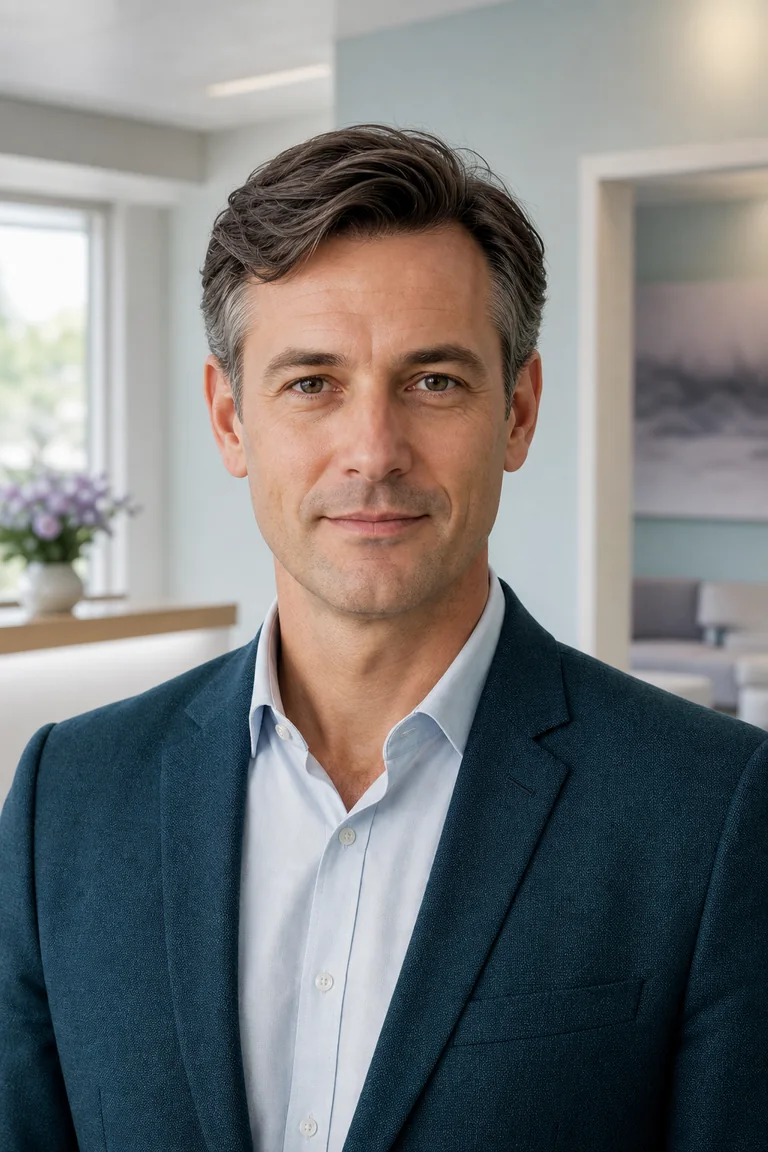
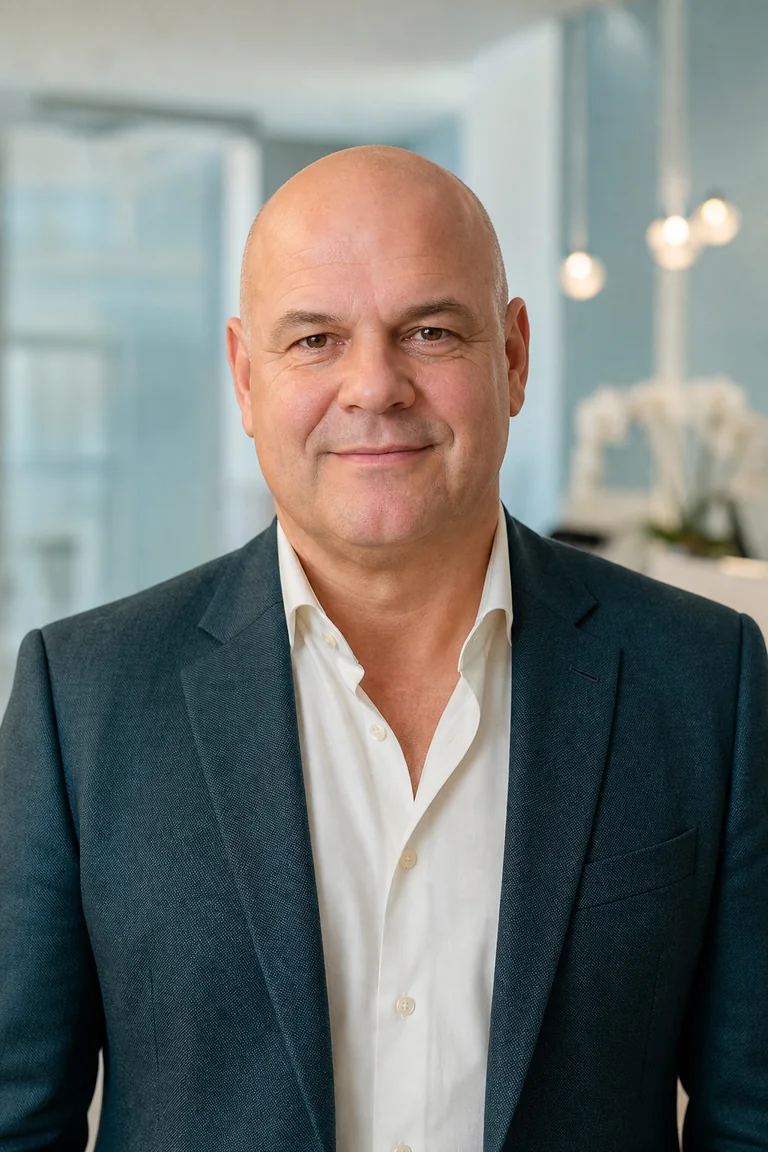
Add Vienna contacts and distinct portraits

diff --git a/medical.css b/medical.css
@@ -95,6 +95,7 @@ main > .result { order: 10; }
 main > .trust { order: 11; }
 main > .questions { order: 12; }
 main > .preparation { order: 13; }
+main > .contact { order: 14; }
 
 a {
   color: inherit;
@@ -1734,6 +1735,83 @@ h2 {
   font-family: Georgia, serif;
 }
 
+.contact {
+  padding: 0 0 46px;
+  background: var(--paper);
+}
+
+.contact-card {
+  display: grid;
+  grid-template-columns: .82fr 1.18fr;
+  gap: 7vw;
+  padding: 70px;
+  border-radius: var(--radius-xl);
+  color: var(--white);
+  background:
+    radial-gradient(circle at 85% 0, rgba(169, 216, 207, .2), transparent 32%),
+    linear-gradient(140deg, #163f49, #102f37);
+  box-shadow: var(--shadow);
+}
+
+.contact-copy h2 {
+  margin: 0 0 28px;
+  color: var(--white);
+  font-size: clamp(48px, 5vw, 72px);
+}
+
+.contact-copy > p:not(.eyebrow) {
+  max-width: 460px;
+  margin: 0;
+  color: rgba(255, 255, 255, .64);
+  font-size: 15px;
+}
+
+.contact-card .eyebrow {
+  color: var(--mint);
+}
+
+.contact-list {
+  display: grid;
+  gap: 12px;
+}
+
+.contact-item {
+  display: grid;
+  min-height: 178px;
+  align-content: space-between;
+  gap: 18px;
+  padding: 28px;
+  border: 1px solid rgba(255, 255, 255, .14);
+  border-radius: var(--radius-md);
+  background: rgba(255, 255, 255, .07);
+  transition: transform .28s ease, border-color .28s ease, background-color .28s ease;
+}
+
+.contact-item:hover {
+  border-color: rgba(169, 216, 207, .48);
+  background: rgba(255, 255, 255, .11);
+  transform: translateY(-3px);
+}
+
+.contact-item span,
+.contact-item small {
+  color: rgba(255, 255, 255, .54);
+  font-size: 9px;
+  font-weight: 750;
+  letter-spacing: .12em;
+  text-transform: uppercase;
+}
+
+.contact-item strong {
+  color: var(--white);
+  font-size: clamp(22px, 2.1vw, 32px);
+  line-height: 1.2;
+}
+
+.contact-item small {
+  color: var(--mint);
+}
+
 .site-footer {
   padding: 60px 0;
   color: var(--white);
@@ -1838,7 +1916,8 @@ h2 {
   .section-heading,
   .methods-layout,
   .questions-grid,
-  .preparation-card { grid-template-columns: 1fr; gap: 40px; }
+  .preparation-card,
+  .contact-card { grid-template-columns: 1fr; gap: 40px; }
   .section-heading > p { max-width: 700px; margin-bottom: 0; }
   .emergency-note { grid-template-columns: 1fr; gap: 12px; }
   .emergency-note span { justify-self: start; }
@@ -1961,6 +2040,11 @@ h2 {
   .preparation { padding-bottom: 28px; }
   .preparation-card { padding: 38px 22px; }
   .preparation-card li { grid-template-columns: 38px 1fr; font-size: 13px; }
+  .contact { padding-bottom: 28px; }
+  .contact-card { gap: 28px; padding: 38px 22px; border-radius: 26px; }
+  .contact-copy h2 { font-size: 43px; }
+  .contact-item { min-height: 150px; padding: 22px; }
+  .contact-item strong { overflow-wrap: anywhere; font-size: 22px; }
   .footer-grid { grid-template-columns: 1fr; gap: 32px; }
   .footer-grid > p { grid-column: auto; grid-row: auto; }
 }

diff --git a/index.html b/index.html
@@ -3,7 +3,7 @@
 <head>
   <meta charset="utf-8">
   <meta name="viewport" content="width=device-width, initial-scale=1">
-  <meta name="description" content="NEURODIAGNOSTIK — независимый центр восстановления и правовой защиты в Германии. Помощь биоэнергетика после негативного эзотерического опыта и отдельный юридический отдел при материальном ущербе.">
+  <meta name="description" content="NEURODIAGNOSTIK — независимый центр восстановления и правовой защиты в Вене, Австрия. Помощь биоэнергетика после негативного эзотерического опыта и отдельный юридический отдел при материальном ущербе.">
   <meta name="robots" content="noindex, nofollow">
   <meta name="theme-color" content="#eaf6f4">
   <meta property="og:title" content="NEURODIAGNOSTIK — восстановление и правовая защита">
@@ -27,7 +27,7 @@
       </span>
       <span class="brand-copy">
         <strong>NEURO<span>DIAGNOSTIK</span></strong>
-        <small>Восстановление и правовая защита · Германия</small>
+        <small>Восстановление и правовая защита · Вена</small>
       </span>
     </a>
 
@@ -37,6 +37,7 @@
       <a href="#energy-specialist">Биоэнергетик</a>
       <a href="#lawyers">Юристы</a>
       <a href="#process">Как работаем</a>
+      <a href="#contacts">Контакты</a>
     </nav>
 
     <a class="button button-primary header-cta" href="#routes">Два направления</a>
@@ -50,6 +51,7 @@
       <a href="#energy-specialist">Биоэнергетик</a>
       <a href="#lawyers">Юристы</a>
       <a href="#process">Как работаем</a>
+      <a href="#contacts">Контакты</a>
       <a class="button button-primary" href="#routes">Два направления</a>
     </nav>
   </div>
@@ -59,7 +61,7 @@
       <div class="hero-ambient" aria-hidden="true"></div>
       <div class="section-shell hero-grid">
         <div class="hero-copy">
-          <p class="eyebrow">Независимый центр · Германия</p>
+          <p class="eyebrow">Независимый центр · Вена, Австрия</p>
           <h1 id="hero-title">
             <span>После общения</span>
             <span>с экстрасенсом</span>
@@ -98,7 +100,7 @@
     <section class="section-pad clinic-entry" id="about">
       <div class="section-shell">
         <div class="clinic-facts reveal-group" aria-label="Формат работы центра">
-          <article><span>Кто мы</span><strong>Независимый центр в Германии</strong><small>специалисты по восстановлению состояния, нейропсихологии и правовой защите</small></article>
+          <article><span>Кто мы</span><strong>Независимый центр в Вене</strong><small>специалисты по восстановлению состояния, нейропсихологии и правовой защите</small></article>
           <article><span>С чем работаем</span><strong>Последствия обращения к эзотерикам</strong><small>ухудшение состояния, страх, зависимость от сеансов или материальный ущерб</small></article>
           <article><span>Как начинается работа</span><strong>С первичного разговора</strong><small>сначала понимаем задачу, затем предлагаем только подходящий маршрут</small></article>
           <article><span>Главный принцип</span><strong>Два независимых направления</strong><small>восстановление с биоэнергетиком или отдельная юридическая работа</small></article>
@@ -150,7 +152,7 @@
         <aside class="emergency-note reveal-group">
           <strong>Когда нельзя ждать консультации центра</strong>
           <p>Внезапная слабость или онемение одной стороны тела, перекос лица, нарушение речи, потеря сознания, судороги, самая сильная внезапная головная боль или непосредственный риск причинения вреда себе — повод немедленно обратиться в экстренную службу.</p>
-          <span>В Германии: 112</span>
+          <span>В Австрии: 144 или 112</span>
         </aside>
       </div>
     </section>
@@ -305,7 +307,7 @@
               <div class="lawyer-card-top"><span>J-05</span><small>Cross-border</small></div>
               <h4>Юрист по трансграничным обращениям</h4>
               <p>Проверяет, где зарегистрирован получатель, какая страна и орган могут рассматривать спор и нужен ли местный представитель.</p>
-              <dl><div><dt>Фокус</dt><dd>Германия, ЕС и иностранные получатели</dd></div><div><dt>Результат</dt><dd>юрисдикция и адресаты обращений</dd></div></dl>
+              <dl><div><dt>Фокус</dt><dd>Австрия, ЕС и иностранные получатели</dd></div><div><dt>Результат</dt><dd>юрисдикция и адресаты обращений</dd></div></dl>
             </article>
           </div>
 
@@ -404,8 +406,8 @@
         </div>
         <div class="trust-grid reveal-group">
           <article><span>01</span><h3>Без магических диагнозов</h3><p>Ощущение воздействия принимается всерьёз, но не выдаётся за доказанный сверхъестественный факт.</p></article>
-          <article><span>02</span><h3>Approbation</h3><p>Медицинские решения принимает врач с действующим правом на практику в Германии.</p></article>
-          <article><span>03</span><h3>Facharztanerkennung</h3><p>Врачебная специализация должна соответствовать заявленному медицинскому профилю.</p></article>
+          <article><span>02</span><h3>Право на практику</h3><p>Медицинские решения принимает только специалист с действующим профессиональным статусом.</p></article>
+          <article><span>03</span><h3>Профильная квалификация</h3><p>Врачебная специализация должна соответствовать заявленному медицинскому профилю.</p></article>
           <article><span>04</span><h3>Без гарантий результата</h3><p>Ни очистка, ни лечение, ни возврат средств не обещаются до профессиональной оценки.</p></article>
           <article><span>05</span><h3>Конфиденциальность</h3><p>Понятный регламент доступа к медицинским, личным и платёжным данным.</p></article>
           <article><span>06</span><h3>Разделение компетенций</h3><p>Энергетик, нейропсихолог, врач и юрист отвечают только за свою часть маршрута.</p></article>
@@ -434,16 +436,38 @@
         <ol><li><span>01</span>С кем общались и что происходило</li><li><span>02</span>Что изменилось в состоянии и когда</li><li><span>03</span>Были ли платежи, давление или угрозы</li><li><span>04</span>Что вам нужно сейчас: восстановление, защита или оба направления</li></ol>
       </div>
     </section>
+
+    <section class="contact" id="contacts" aria-labelledby="contact-title">
+      <div class="section-shell contact-card reveal-group">
+        <div class="contact-copy">
+          <p class="eyebrow">Контакты центра</p>
+          <h2 id="contact-title">Вена,<br>Австрия</h2>
+          <p>Адрес и телефон для связи с центром. Перед визитом согласуйте формат обращения по телефону.</p>
+        </div>
+        <div class="contact-list">
+          <a class="contact-item" href="https://www.google.com/maps/search/?api=1&amp;query=Heiligenst%C3%A4dter%20Str.%2055%2F65%2C%201190%20Wien%2C%20Austria" target="_blank" rel="noopener noreferrer">
+            <span>Адрес</span>
+            <strong>Heiligenstädter Str. 55/65<br>1190 Wien, Австрия</strong>
+            <small>Открыть на карте →</small>
+          </a>
+          <a class="contact-item" href="tel:+431360665000">
+            <span>Телефон</span>
+            <strong>+43 1 360665000</strong>
+            <small>Позвонить в центр →</small>
+          </a>
+        </div>
+      </div>
+    </section>
   </main>
 
   <footer class="site-footer">
     <div class="section-shell footer-grid">
       <a class="brand brand-footer" href="#top">
         <span class="brand-mark" aria-hidden="true"><svg class="brand-emblem" viewBox="0 0 64 64" role="presentation"><path class="brand-shield" d="M32 5 52 12v17c0 13-8.5 23.5-20 29C20.5 52.5 12 42 12 29V12Z"/><path class="brand-cross" d="M32 15v22M21 26h22"/><path class="brand-neural" d="M18 43c5.5-6.5 11-3 16-7.5 4.5-4 5.5-9.5 12-13.5"/><circle class="brand-node" cx="18" cy="43" r="2.2"/><circle class="brand-node" cx="46" cy="22" r="2.2"/></svg></span>
-        <span class="brand-copy"><strong>NEURO<span>DIAGNOSTIK</span></strong><small>Восстановление и правовая защита · Германия</small></span>
+        <span class="brand-copy"><strong>NEURO<span>DIAGNOSTIK</span></strong><small>Восстановление и правовая защита · Вена</small></span>
       </a>
-      <p>Информационный сайт центра. Энергетические практики не являются медицинской диагностикой или лечением. Медицинские решения принимают только профильные специалисты; юридический результат не гарантируется заранее.</p>
-      <div><a href="#about">Кто мы</a><a href="#routes">Два направления</a><a href="#energy-specialist">Биоэнергетик</a><a href="#lawyers">Юридический отдел</a><a href="#methods">Медицинская экспертиза</a><a href="#process">Как работаем</a><a href="#questions">Вопросы</a><a href="terms.html">Пользовательское соглашение</a></div>
+      <p>Heiligenstädter Str. 55/65, 1190 Wien, Австрия<br><a href="tel:+431360665000">+43 1 360665000</a></p>
+      <div><a href="#about">Кто мы</a><a href="#routes">Два направления</a><a href="#energy-specialist">Биоэнергетик</a><a href="#lawyers">Юридический отдел</a><a href="#methods">Медицинская экспертиза</a><a href="#process">Как работаем</a><a href="#questions">Вопросы</a><a href="#contacts">Контакты</a><a href="terms.html">Пользовательское соглашение</a></div>
     </div>
   </footer>
 </body>

diff --git a/terms.html b/terms.html
@@ -22,7 +22,7 @@
       </span>
       <span class="brand-copy">
         <strong>NEURO<span>DIAGNOSTIK</span></strong>
-        <small>Восстановление и правовая защита · Германия</small>
+        <small>Восстановление и правовая защита · Вена</small>
       </span>
     </a>
     <a class="button button-primary legal-back" href="index.html">Вернуться на сайт</a>
@@ -32,7 +32,7 @@
     <section class="legal-hero">
       <div class="section-shell legal-hero-grid">
         <div>
-          <p class="eyebrow">Правовая информация · версия от 17 июля 2026 года</p>
+          <p class="eyebrow">Правовая информация · версия от 18 июля 2026 года</p>
           <h1>Пользовательское<br>соглашение</h1>
         </div>
         <div class="legal-hero-note">
@@ -74,7 +74,7 @@
           <section id="operator">
             <span class="legal-number">02</span>
             <h2>Владелец сайта и сфера действия</h2>
-            <p>В настоящем Соглашении «Оператор» означает лицо, которое владеет Сайтом и отвечает за его содержание. Полное юридическое наименование, правовая форма, официальный адрес, регистрационные и профессиональные сведения публикуются в отдельном Impressum на основании официальных документов Оператора.</p>
+            <p>В настоящем Соглашении «Оператор» означает лицо, которое владеет Сайтом и отвечает за его содержание. Контактный адрес: Heiligenstädter Str. 55/65, 1190 Wien, Австрия. Телефон: <a href="tel:+431360665000">+43 1 360665000</a>. Полное юридическое наименование, правовая форма, регистрационные и профессиональные сведения публикуются в отдельном Impressum на основании официальных документов Оператора.</p>
             <p>До публикации таких сведений Сайт используется только как информационная презентация: через него нельзя заключить договор, оплатить услугу или передать медицинские и иные чувствительные данные.</p>
             <p>Настоящее Соглашение относится только к использованию информационного Сайта. Биоэнергетическое сопровождение, медицинские, диагностические и юридические услуги, если они предлагаются, регулируются отдельными договорами и условиями.</p>
           </section>
@@ -109,8 +109,8 @@
             <h2>Сайт не предназначен для экстренной помощи</h2>
             <p>При угрозе жизни, потере сознания, выраженной спутанности сознания, судорогах, внезапном неврологическом дефиците, суицидальных намерениях или ином неотложном состоянии необходимо немедленно обращаться в экстренные службы.</p>
             <div class="emergency-contacts">
-              <a href="tel:112"><strong>112</strong><span>Экстренная помощь в Германии</span></a>
-              <a href="tel:116117"><strong>116117</strong><span>Дежурная медицинская служба, если состояние не угрожает жизни</span></a>
+              <a href="tel:144"><strong>144</strong><span>Скорая помощь в Австрии</span></a>
+              <a href="tel:1450"><strong>1450</strong><span>Медицинская консультационная линия в Австрии</span></a>
             </div>
             <p>Сайт, электронная почта и дистанционная переписка не контролируются как канал экстренной связи и не должны использоваться для срочного получения помощи.</p>
           </section>
@@ -136,7 +136,7 @@
             <span class="legal-number">09</span>
             <h2>Изменения и применимое право</h2>
             <p>Оператор может изменять содержание Сайта и настоящего Соглашения. Актуальная редакция публикуется на этой странице с указанием даты. Изменения не имеют обратной силы в отношении уже заключённых отдельных договоров, если иное прямо не предусмотрено законом.</p>
-            <p>К использованию Сайта применяется право Федеративной Республики Германия с сохранением обязательных прав потребителя, предоставленных правом страны его обычного места жительства.</p>
+            <p>Применимое право и компетентный орган определяются обязательными нормами, статусом Оператора и условиями отдельного договора. Контактный адрес в Австрии сам по себе не заменяет сведения о юридическом лице и его профессиональном статусе.</p>
             <p>Если отдельное положение окажется недействительным, остальные положения продолжают действовать в допустимом законом объёме.</p>
           </section>
 
@@ -149,7 +149,7 @@
     <div class="section-shell footer-grid">
       <a class="brand brand-footer" href="index.html">
         <span class="brand-mark" aria-hidden="true"><svg class="brand-emblem" viewBox="0 0 64 64" role="presentation"><path class="brand-shield" d="M32 5 52 12v17c0 13-8.5 23.5-20 29C20.5 52.5 12 42 12 29V12Z"/><path class="brand-cross" d="M32 15v22M21 26h22"/><path class="brand-neural" d="M18 43c5.5-6.5 11-3 16-7.5 4.5-4 5.5-9.5 12-13.5"/><circle class="brand-node" cx="18" cy="43" r="2.2"/><circle class="brand-node" cx="46" cy="22" r="2.2"/></svg></span>
-        <span class="brand-copy"><strong>NEURO<span>DIAGNOSTIK</span></strong><small>Восстановление и правовая защита · Германия</small></span>
+        <span class="brand-copy"><strong>NEURO<span>DIAGNOSTIK</span></strong><small>Восстановление и правовая защита · Вена</small></span>
       </a>
       <p>Пользовательское соглашение информационного сайта. Биоэнергетическое сопровождение, медицинские и юридические услуги регулируются отдельными условиями и профессиональными правилами.</p>
       <div><a href="index.html">Главная</a><a href="#top">Наверх</a></div>